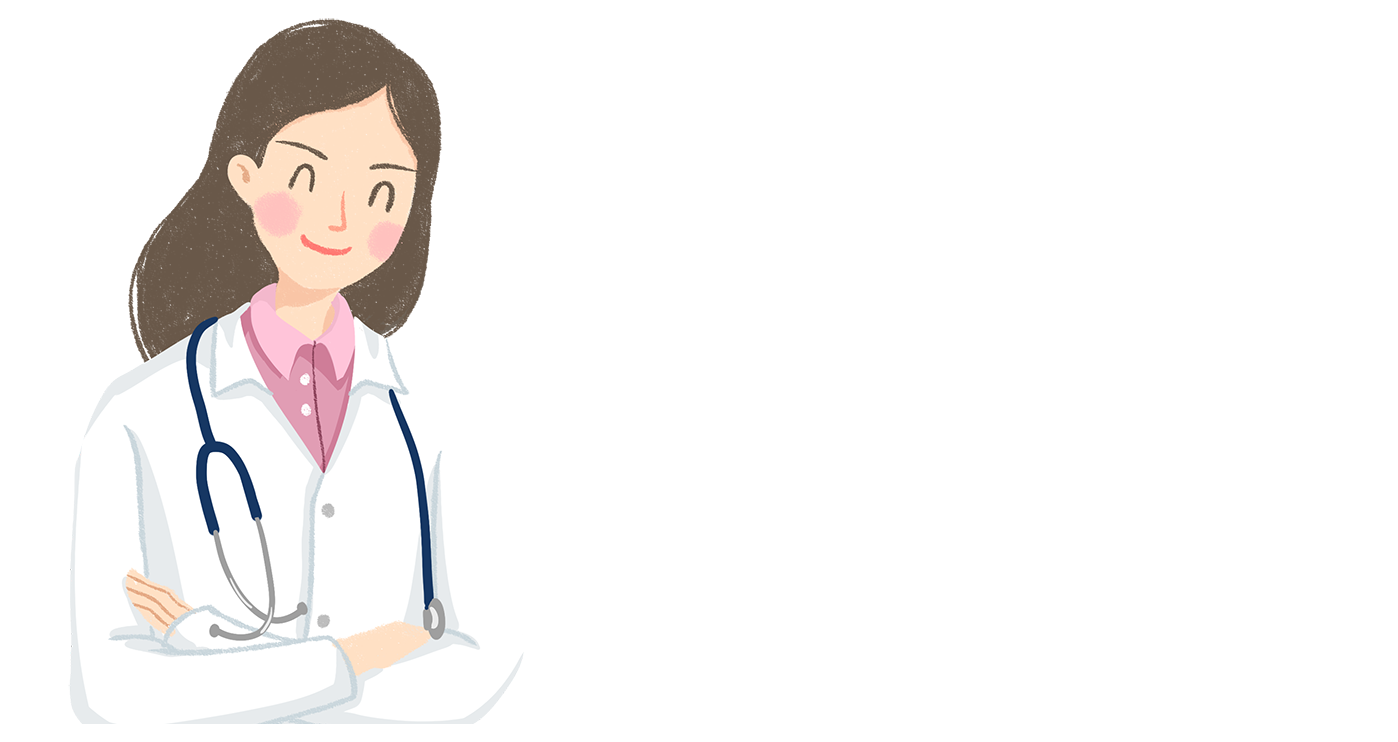
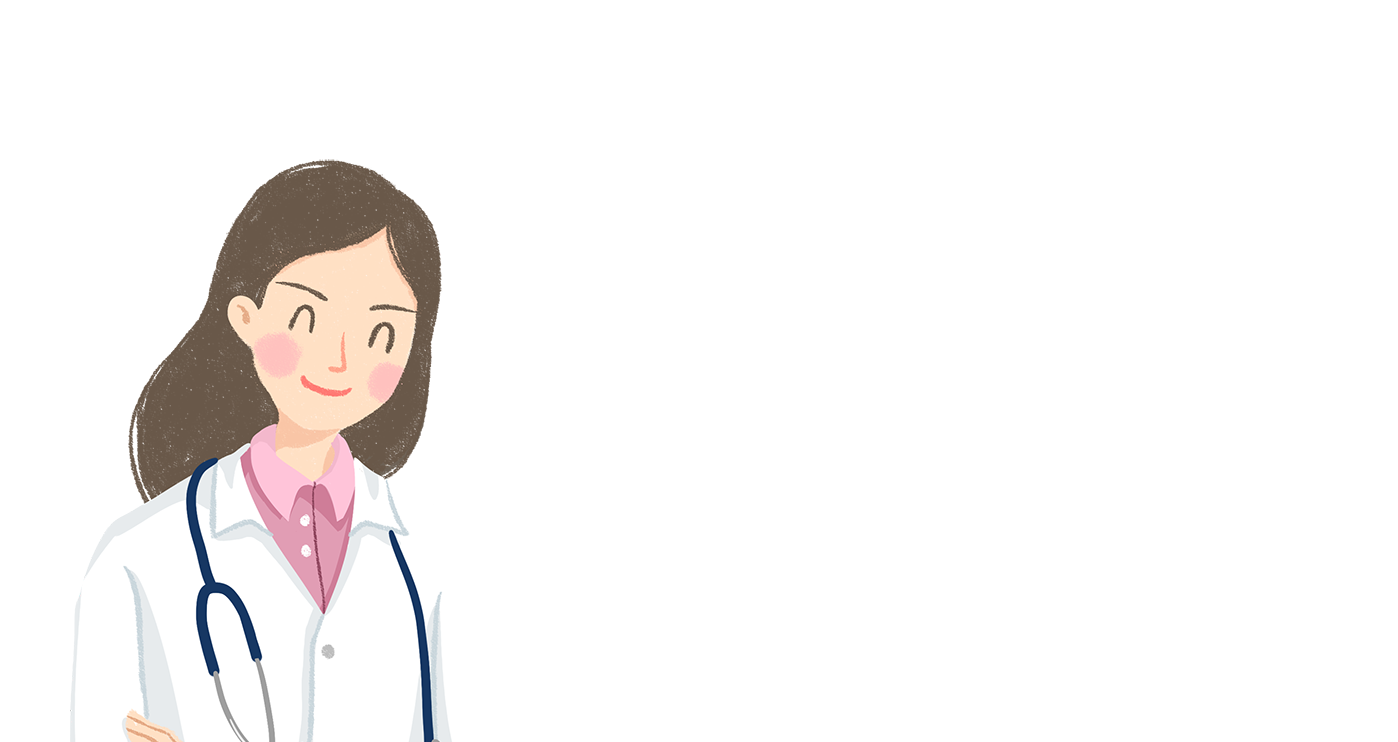
update background and cards

Changed region(s): [[0.0615, 0.0, 0.3383, 1.0]]

diff --git a/index.html b/index.html
@@ -55,16 +55,16 @@
       </div>
     </ul>
   </nav>
-  <div class="jumbotron bg-img " id="superjumbo">
-    <div class="container">
-      <div class="row">
-        <div class="col-xl-12 col-lg-12 col-md-12 col-sm-12 col-xs-12 text-center">
+  <div class="jumbotron bg-img d-flex justify-content-center align-items-center" id="superjumbo">
+    <div class="container ">
+      <div class="row ">
+        <div class="col-12 text-center">
           <h1 class=" text-center">
-            <span id=""><img src="images/logo.png" class="log-img" /></span>
+            <span id=""><img src="images/logo.png" class="log-img w-25 mt-auto mb-auto" /></span>
           </h1>
           <hr width="40%" id="hrjumbo">
           <p class="jump text-center">Creating Quality Molecules With Catalyst Ideas</p>
-          <button class="btn btn-light btn-lg ">Learn More</button>
+          <button class="btn btn-success btn-lg ">Learn More</button>
           <span id="whyAnphar"></span>
 
         </div>
@@ -82,11 +82,11 @@
 
       <div class="row w-100  d-flex">
 
-        <div class="welcome w-100 p-3 h-100 justify-content-end">
+        <div class="welcome  justify-content-end">
           <h3>Welcome</h3>
           <p>Lorem ipsum dolor sit amet consectetur adipisicing elit. Fugiat placeat at ipsa ex illum accusantium
             mollitia nostrum eaque velit aliquam ipsum rerum, officiis quibusdam ut illo? Repellat voluptas soluta
-            asperiores?</p>
+            asperiores? Lorem ipsum, dolor sit amet consectetur adipisicing elit. Atque ex illum omnis soluta nihil debitis dolores ea labore adipisci eum.</p>
         </div>
 
       </div>
@@ -98,62 +98,60 @@
 
   <div class="board">
     <h2 class="bod text-center ">Board of Directors</h2>
-    <div class="container ">
-      <div class="row d-flex justify-content-center">
-
-
-        <!--Card-->
-        <div class="card p-2 testimonial-card  mt-2 mb-3 col-8 col-sm-12 col-md-6">
-
-          <!-- Background color -->
-          <div class="card-up "></div>
-
-          <!-- Avatar -->
-          <div class="avatar mx-auto white">
-            <img src="" class="rounded-circle img-responsive" alt="">
+    <div class="container">
+      <div class="row p-3">
+          <div class="col-xs-12 col-sm-6 col-md-6">
+              <div class="well well-sm ">
+                  <div class="row ">
+                      <div class="col-sm-6 col-md-4">
+                          <img src="Images/card-img.png" alt="" class="img-rounded img-responsive card-img" />
+                          <div class="links p-3 text-center ">
+                      
+                            <button class="btn"><i class="fa fa-instagram bg-danger fa-2x p-1" ></i></button>
+                            <button class="btn"><i class="fa fa-facebook bg-primary fa-2x p-1" ></i></button>
+                      </div>
+                      </div>
+                      <div class="col-sm-6 col-md-8 ">
+                          <h4 class="m-0 text-primary">
+                              Anil Gupta</h4>
+                          <small><cite title="San Francisco, USA">Managing Director <i class="glyphicon glyphicon-map-marker">
+                          </i></cite></small>
+                          <p class="d-sm-none d-md-block text-light">Lorem ipsum, dolor sit amet consectetur <br> adipisicing elit. Deleniti doloribus nemo voluptatem,<br> iure velit id eaque doloremque ut aut officiis  <br> hic maxime tempore incidunt adipisci quas eius, <br> ducimus iusto corporis.</p>
+              
+                         
+                      </div>
+                  </div>
+              </div>
           </div>
+     
+          <div class="col-xs-12 col-sm-6 col-md-6">
+              <div class="well well-sm ">
+                  <div class="row ">
+                      <div class="col-sm-5 col-md-4">
+                          <img src="Images/card-img.png" alt="" class="img-rounded img-responsive card-img" />
+                          <div class="links p-3  text-center ">
+                      
+                            <button class="btn"><i class="fa fa-instagram bg-danger fa-2x p-1" ></i></button> 
+                              <button class="btn"><i class="fa fa-facebook bg-primary fa-2x p-1" ></i></button>
+                      </div>
 
-          <!-- Content -->
-          <div class="card-body badge-primary">
-            <!-- Name -->
-            <h4 class="card-title font-weight-bold">Mr. Anil Gupta - Managing Director</h4>
-            <hr>
-            <!-- Quotation -->
-            <p><i class="fas fa-quote-left"></i>A Qualified Pharmaceutical Engineer Backed by over 30 years of
-              experience in manufacturing and process development of bulk drugs.</p>
+                      </div>
+                      <div class="col-sm-7 col-md-8 ">
+                          <h4 class=" m-0 text-primary " >
+                              Rattandeep Singh Anand</h4 >
+                          <small><cite title="San Francisco, USA">JT - Managing Director <i class="glyphicon glyphicon-map-marker">
+                          </i></cite></small>
+                          <p class="d-sm-none d-md-block text-light">Lorem ipsum, dolor sit amet consectetur <br> adipisicing elit. Deleniti doloribus nemo voluptatem,<br> iure velit id eaque doloremque ut aut officiis  <br> hic maxime tempore incidunt adipisci quas eius, <br> ducimus iusto corporis.</p>
+              
+                         
+                      </div>
+                  </div>
+              </div>
           </div>
-
-        </div>
-        <!--Card-->
-        <!--Card-->
-        <div class="card p-2 testimonial-card mt-2 mb-3 col-8 col-md-6">
-
-          <!-- Background color -->
-          <div class="card-up aqua-gradient"></div>
-
-          <!-- Avatar -->
-          <div class="avatar mx-auto white">
-            <img src="" class="rounded-circle img-responsive" alt="">
-          </div>
-
-          <!-- Content -->
-          <div class="card-body badge-primary ">
-            <!-- Name -->
-            <h4 class="card-title font-weight-bold">Rattandeep Singh Anand - JT - Managing Director</h4>
-            <hr>
-            <!-- Quotation -->
-            <p><i class="fas fa-quote-left"></i> A commerce graduate with business experience of around 20 years.
-              Products</p>
-          </div>
-
-
-        </div>
-        <!--Card-->
-
-
-
       </div>
-    </div>
+  </div>
+
+    
 
   </div>
 

diff --git a/bod.html b/bod.html
@@ -1,0 +1,94 @@
+<!doctype html>
+<html lang="en">
+
+<head>
+    <title>Title</title>
+    <!-- Required meta tags -->
+    <meta charset="utf-8">
+    <meta name="viewport" content="width=device-width, initial-scale=1, shrink-to-fit=no">
+
+    <script src="https://kit.fontawesome.com/c9a392e4e1.js" crossorigin="anonymous"></script>
+    <!-- Bootstrap CSS -->
+    <link rel="stylesheet" href="https://stackpath.bootstrapcdn.com/bootstrap/4.3.1/css/bootstrap.min.css"
+        integrity="sha384-ggOyR0iXCbMQv3Xipma34MD+dH/1fQ784/j6cY/iJTQUOhcWr7x9JvoRxT2MZw1T" crossorigin="anonymous">
+
+
+    <link rel="stylesheet" href="css/style.css">
+</head>
+
+<body>
+
+
+
+
+
+
+        <div class="container">
+            <div class="row p-3">
+                <div class="col-xs-12 col-sm-6 col-md-6">
+                    <div class="well well-sm ">
+                        <div class="row ">
+                            <div class="col-sm-6 col-md-4">
+                                <img src="Images/card-img.png" alt="" class="img-rounded img-responsive card-img" />
+                                <div class="links p-3 text-center ">
+                            
+                                    <i class="fa fa-instagram bg-danger p-2"></i> 
+                                    <i class="fa fa-facebook bg-primary p-2" ></i>
+                            </div>
+                            </div>
+                            <div class="col-sm-6 col-md-8 ">
+                                <h4 m-0>
+                                    Anil Gupta</h4>
+                                <small><cite title="San Francisco, USA">Managing Director <i class="glyphicon glyphicon-map-marker">
+                                </i></cite></small>
+                                <p class="d-sm-none d-md-block">Lorem ipsum, dolor sit amet consectetur <br> adipisicing elit. Deleniti doloribus nemo voluptatem,<br> iure velit id eaque doloremque ut aut officiis  <br> hic maxime tempore incidunt adipisci quas eius, <br> ducimus iusto corporis.</p>
+                    
+                               
+                            </div>
+                        </div>
+                    </div>
+                </div>
+           
+                <div class="col-xs-12 col-sm-6 col-md-6">
+                    <div class="well well-sm ">
+                        <div class="row ">
+                            <div class="col-sm-5 col-md-4">
+                                <img src="Images/card-img.png" alt="" class="img-rounded img-responsive card-img" />
+                                <div class="links p-3  text-center ">
+                            
+                                    <i class="fa fa-instagram bg-danger p-2"></i> 
+                                    <i class="fa fa-facebook bg-primary p-2" ></i>
+                            </div>
+
+                            </div>
+                            <div class="col-sm-7 col-md-8 ">
+                                <h4 m-0>
+                                    Rattandeep Singh Anand</h4>
+                                <small><cite title="San Francisco, USA">JT - Managing Director <i class="glyphicon glyphicon-map-marker">
+                                </i></cite></small>
+                                <p class="d-sm-none d-md-block">Lorem ipsum, dolor sit amet consectetur <br> adipisicing elit. Deleniti doloribus nemo voluptatem,<br> iure velit id eaque doloremque ut aut officiis  <br> hic maxime tempore incidunt adipisci quas eius, <br> ducimus iusto corporis.</p>
+                    
+                               
+                            </div>
+                        </div>
+                    </div>
+                </div>
+            </div>
+        </div>
+        
+
+
+    <!-- Optional JavaScript -->
+    <!-- jQuery first, then Popper.js, then Bootstrap JS -->
+    <script src="https://code.jquery.com/jquery-3.3.1.slim.min.js"
+        integrity="sha384-q8i/X+965DzO0rT7abK41JStQIAqVgRVzpbzo5smXKp4YfRvH+8abtTE1Pi6jizo" crossorigin="anonymous">
+    </script>
+    <script src="https://cdnjs.cloudflare.com/ajax/libs/popper.js/1.14.7/umd/popper.min.js"
+        integrity="sha384-UO2eT0CpHqdSJQ6hJty5KVphtPhzWj9WO1clHTMGa3JDZwrnQq4sF86dIHNDz0W1" crossorigin="anonymous">
+    </script>
+    <script src="https://stackpath.bootstrapcdn.com/bootstrap/4.3.1/js/bootstrap.min.js"
+        integrity="sha384-JjSmVgyd0p3pXB1rRibZUAYoIIy6OrQ6VrjIEaFf/nJGzIxFDsf4x0xIM+B07jRM" crossorigin="anonymous">
+    </script>
+</body>
+
+</html>

diff --git a/css/style.css b/css/style.css
@@ -7,11 +7,6 @@ html {
   padding-left: 1em;
 }
 
-.cor {
-  width: 2553px;
-  height: 799px;
-  margin: 0;
-}
 
 .navLogo {
   width: 6%;
@@ -26,11 +21,12 @@ html {
 }
 
 .bg-img {
-  background: url('../images/136920.jpg');
+  background: url('../images/bg.jpg');
   background-position: center;
   background-repeat: no-repeat;
   background-size: cover;
-  color: #fff
+  color: #fff;
+  height: 80vh;
 }
 
 .about{
@@ -38,10 +34,11 @@ html {
   margin: 0 ;
 }
 .bg-doc{
-  background: url('../Images/doc.png');
+  background: url('../Images/doc-small.png');
   background-position: center;
   background-repeat: no-repeat;
   background-size: cover;
+  height: 80vh;
 }
 
 .nav-link{
@@ -69,7 +66,7 @@ button{
   flex-wrap: nowrap;
 }
 
-@media all and (max-width: 768px) {
+@media all and (max-width: 880px) {
   .d-flex{
     flex-wrap: wrap;
     
@@ -80,10 +77,31 @@ button{
   }
   .bg-doc {
     background: none;
-    background-position: center;
-    background-repeat: no-repeat;
-    background-size: cover;
+    height: 40vh;
     
   }
+  .bg-img{
+    height: 50vh;
+  }
+
 }
 
+@media all and (max-width: 1200px and min-width: 990)  {
+
+
+}
+
+
+
+
+.glyphicon {  margin-bottom: 10px;margin-right: 10px;}
+
+small {
+display: block;
+line-height: 1.428571429;
+color: #999;
+}
+
+.card-img{
+  object-fit: cover;
+}
